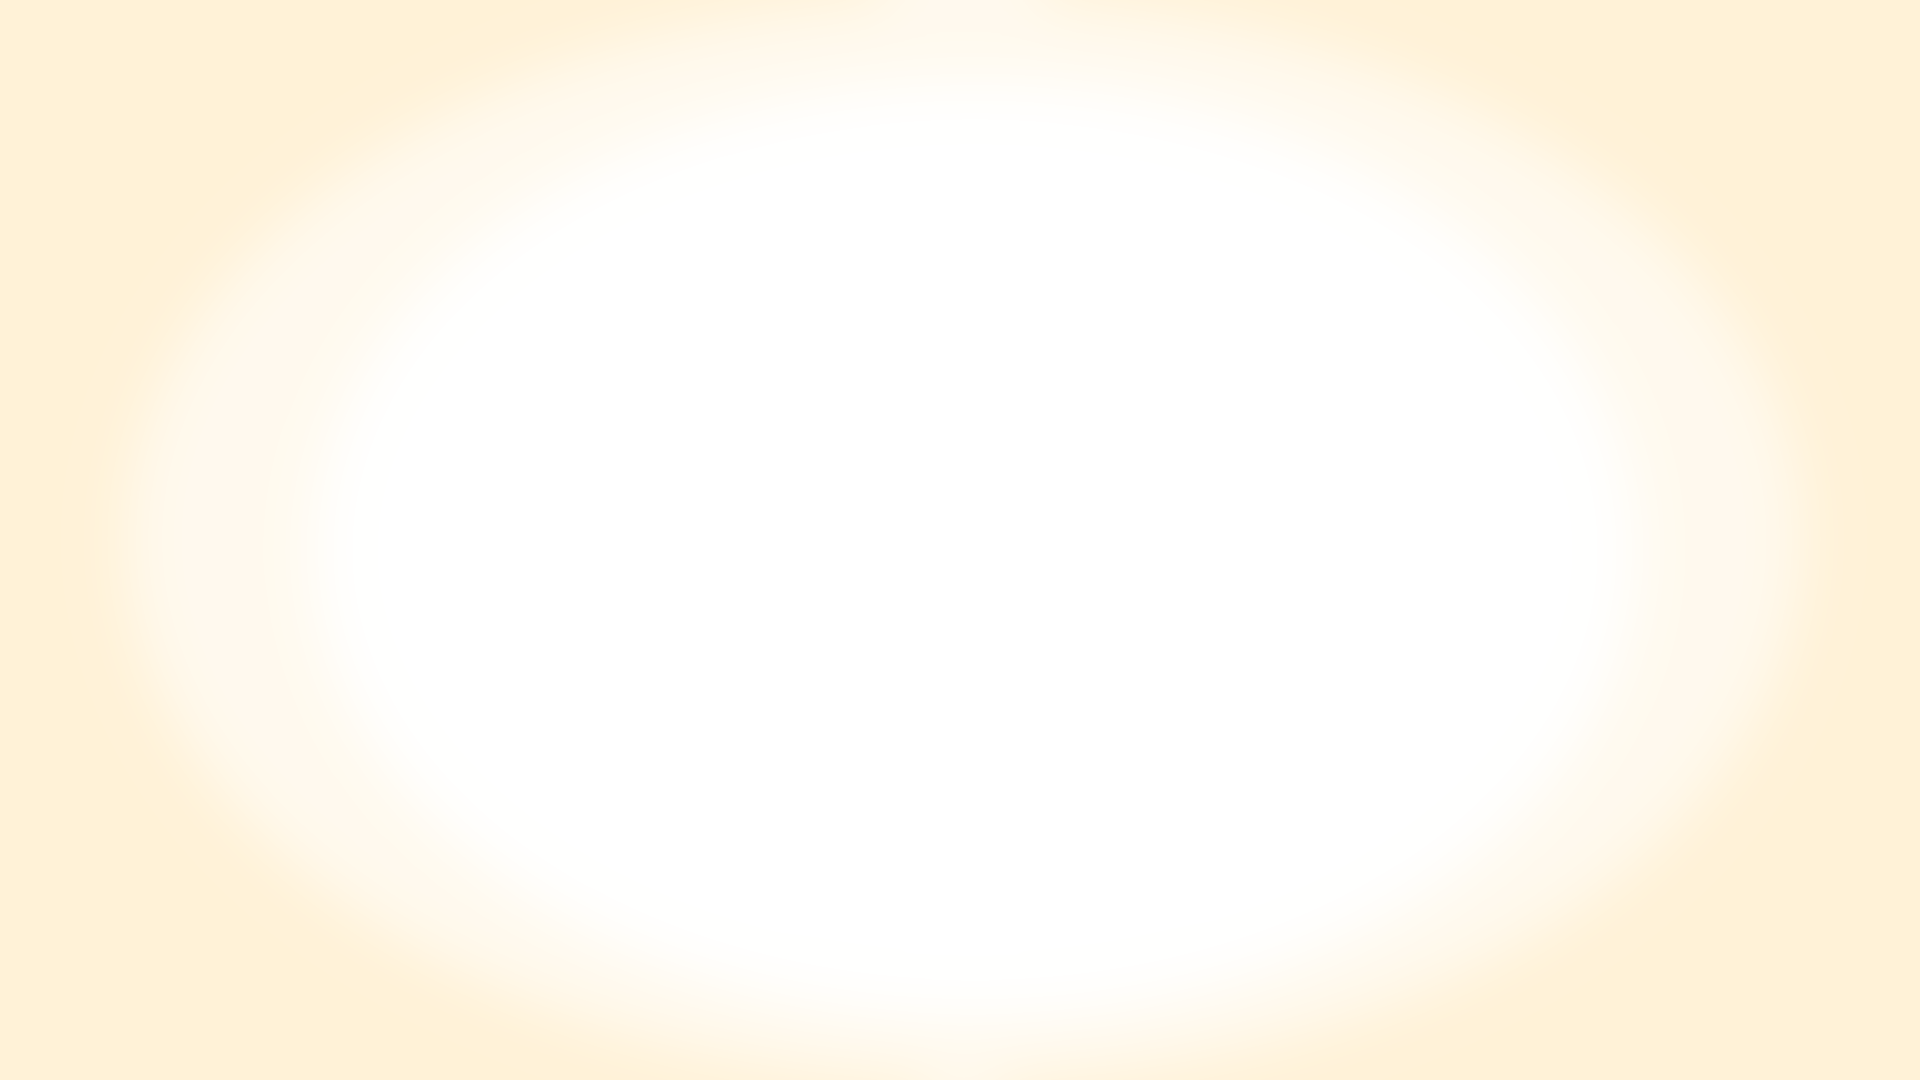
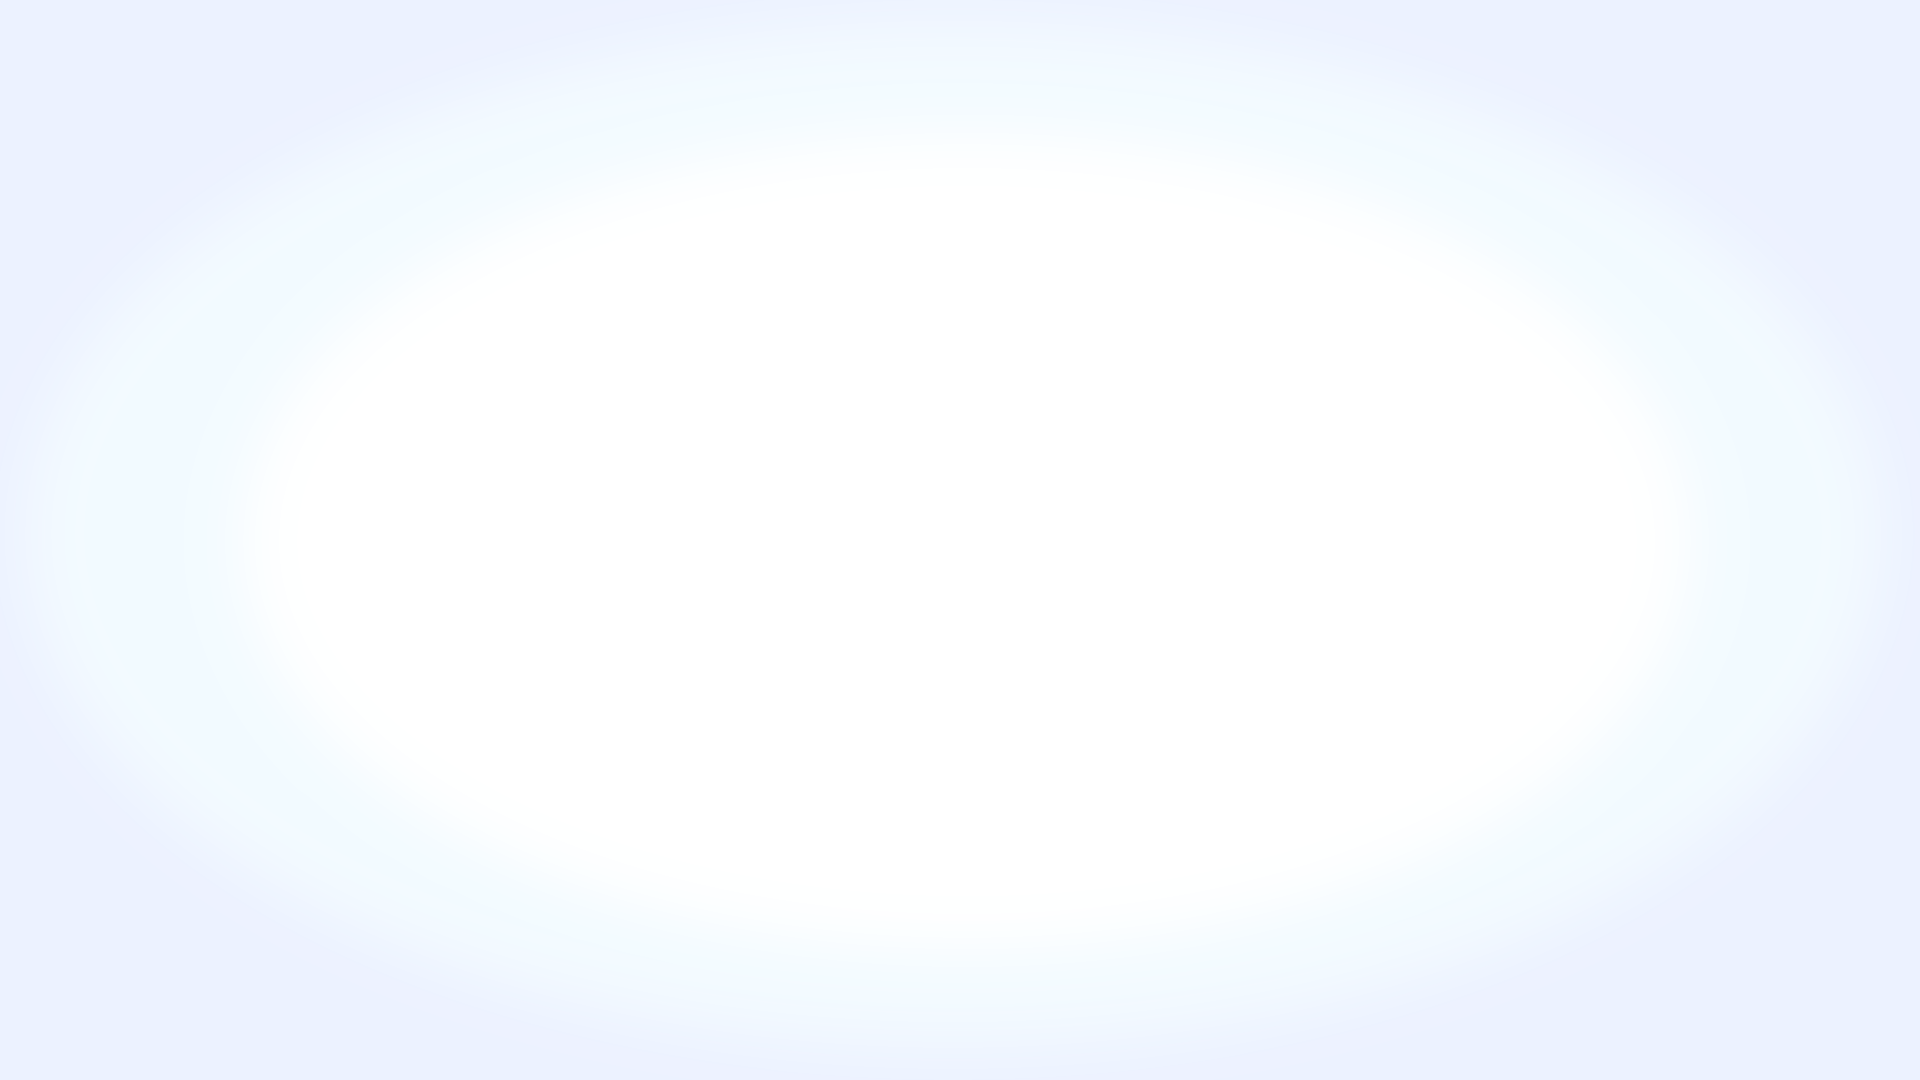
design update

diff --git a/index.css b/index.css
@@ -106,7 +106,7 @@ h3{
 }
 
 .menu_footer {
-    border-left: 2px solid rgb(255, 215, 80);
+    border-left: 2px solid rgb(60, 135, 220);
     padding-left: 2.5vw;
     padding-top: 0.25vh;
     padding-bottom: 0.25vh;
@@ -186,7 +186,7 @@ a:hover{
     top: 165.65vh;
     width: 100%;
     height: 70.60vh;
-    background-color: rgb(255, 215, 80);
+    background-color: rgb(60, 135, 220);
 }
 
 #main-divider2 {
@@ -195,7 +195,7 @@ a:hover{
     top: 298.8vh;
     width: 100%;
     height: 70.70vh;
-    background-color: rgb(255, 215, 80);
+    background-color: rgb(60, 135, 220);
 }
 
 #main-divider3 {
@@ -205,7 +205,7 @@ a:hover{
     height: 9vh;
     z-index: 1;
     border-top: 3px solid black;
-    background: linear-gradient(to bottom, rgba(255, 215, 80, 0.4) 0%,rgba(255,255,255,0) 100%);
+    background: linear-gradient(to bottom, rgba(60, 135, 220, 0.4) 0%,rgba(255,255,255,0) 100%);
     border-bottom: 2px solid white;
 }
 
@@ -224,7 +224,6 @@ a:hover{
     text-align: left;
     padding-left: 3.5vw;
     font-size: 16px;
-    border-top: 2px solid black;
     width:100vw;
     height:100vh;
     z-index: 0;
@@ -333,7 +332,7 @@ a:hover{
     pointer-events: none;
     transition: opacity 0.20s ease 0s;
     opacity: 0;
-    background-color: rgb(255, 215, 80);
+    background-color: rgb(60, 135, 220);
     width: 100vw;
     height: 100vh;
     z-index: 2;

diff --git a/index.html b/index.html
@@ -5,7 +5,7 @@
 
     <!-- Application Header -->
     <head>
-        <title>Project Ava - Home</title>
+        <title>Interactive Resume</title>
         <meta charset="utf-8">
         <meta name="viewport" content="width=device-width, user-scalable=no, minimum-scale=1.0, maximum-scale=1.0">
         <link rel="stylesheet" href="index.css">
@@ -54,7 +54,7 @@
             <div id="main-divider1" ></div>
 
             <!-- How Section -->
-            <div id="main-how" style="">
+            <div id="main-how">
                 <!-- Text -->
                 <div class="text-div">
                     <h1 style="padding-top: 3vh">Experience</h1>
